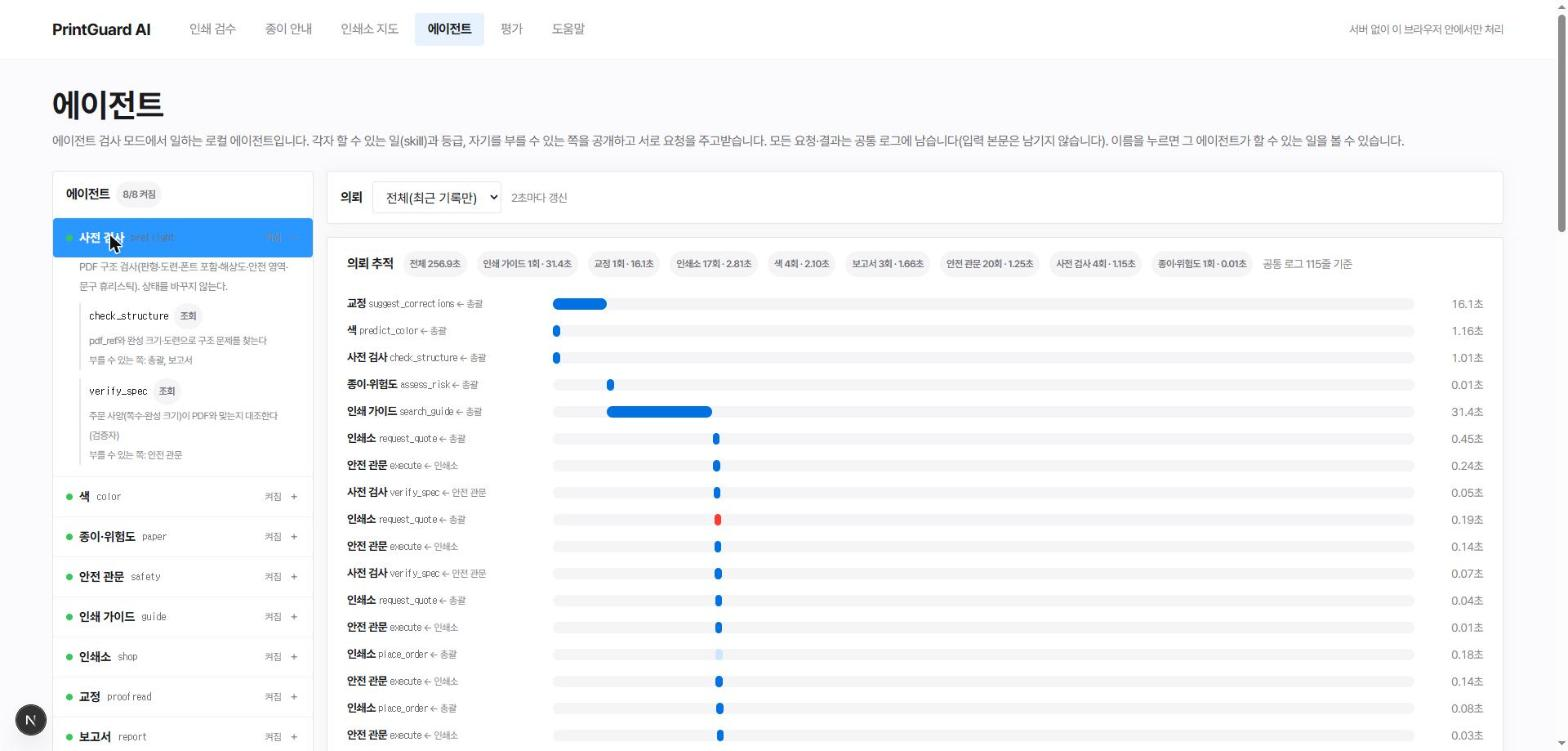
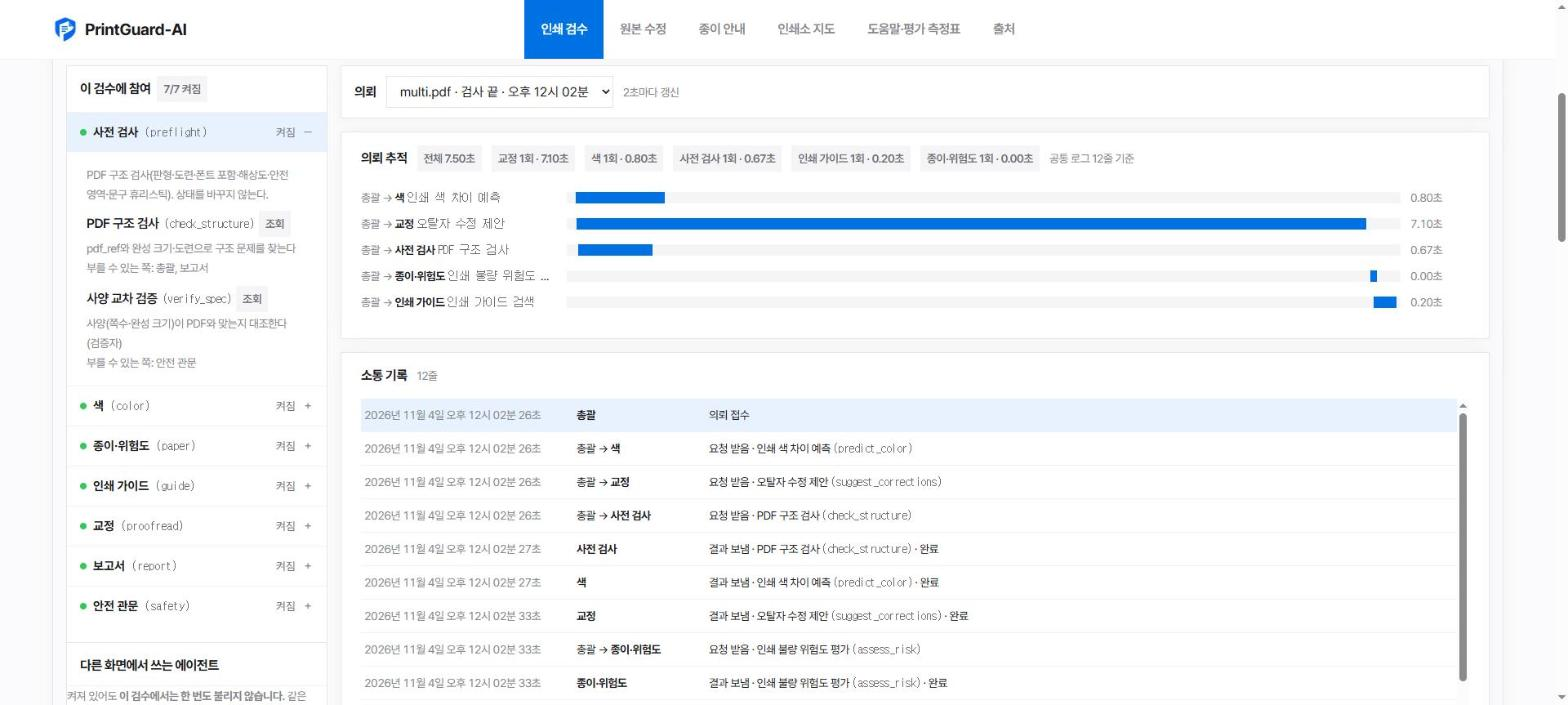
도움말 캡처를 다시 찍는다
캡처 셋이 앱보다 한참 앞섰다. 브랜드 이름이 'PrintGuard AI'(지금은 로고 + PrintGuard-AI),
상단 메뉴에 없어진 '에이전트'·'평가' 탭이 있고 '원본 수정'·'출처'가 없다. 에이전트는
8/8이고, 화면에 shop.request_quote·place_order 같은 없어진 skill이 찍혀 있다.

- guide-search.jpg, eval-search.jpg, agents-tab.jpg를 지금 화면으로 다시 찍었다.
  agents-tab은 새로 가른 목록('이 검수에 참여' / '다른 화면에서 쓰는 에이전트')이 보인다.
- fix-compare.jpg를 새로 넣었다 — 원본 수정의 전후 비교.
- safety-gates.jpg를 지운다. 어디에서도 쓰지 않는데 없어진 주문 skill이 찍혀 있었다.

캡처가 접힌 <details> 안이라 처음에는 안 받아 온다. 버그가 아니라 지연 로딩이고,
질문을 펼치면 받는다.

Claude-Session: https://claude.ai/code/session_01LP9xbMm7SoC7Ku49ug9WyR

diff --git a/frontend/app/help/page.tsx b/frontend/app/help/page.tsx
@@ -85,9 +85,9 @@ export default function WhyPage() {
         <How>자르기(청킹) 4종 × 임베딩 모델 4종을 질문 92개로 비교하고 임베딩(dense)과 단어 검색(2-gram BM25)을 각각 z-정규화해<b>0.5 : 0.5</b>로 섞었습니다.
           브라우저에서 돌리려고 multilingual-e5-small의 int8 ONNX(약 {MODEL_FILE_MB}MB)를 씁니다.</How>
         <Result>섞어 쓰기(하이브리드)가 MRR@10 0.98 수준으로 가장 좋았습니다. 2.3GB짜리 큰 모델(bge-m3·KURE-v1)과의 차이는 95% 구간이 겹쳐 구분되지 않았습니다. 그래서<b>브라우저에 올릴 수 있는 작은 모델</b>로 정했습니다.</Result>
-        <Shot w={1568} h={751} src="/shots/guide-search.jpg" alt="인쇄 검수 화면 위쪽의 가이드 검색 결과"
+        <Shot w={1568} h={705} src="/shots/guide-search.jpg" alt="인쇄 검수 화면 위쪽의 가이드 검색 결과"
           caption="인쇄 검수 화면 맨 위에서 바로 찾습니다. 답을 새로 쓰지 않고 가이드 원문 절을 그대로 보여 줍니다. 검색에 걸린 구간(연한 배경)과 질문 단어(진한 표시)는 원문 위에 표시합니다." />
-        <Shot w={1568} h={751} src="/shots/eval-search.jpg" alt="자르기 × 임베딩 모델 비교표"
+        <Shot w={1568} h={705} src="/shots/eval-search.jpg" alt="자르기 × 임베딩 모델 비교표"
           caption="고른 근거: 자르기 4종 × 모델 4종의 1위 적중률 비교(이 페이지 아래 측정표). 2.3GB짜리 큰 모델과는 구간이 겹쳤습니다. 그래서 브라우저에 올릴 수 있는 작은 모델을 택했습니다." />
         <Care>평가 질문 92개는 가이드를 쓴 사람이 직접 만들었습니다. 질문과 정답 문장이 같은 단어를 쓰니 BM25에 유리합니다. 대부분 설정이 90% 안팎 천장에 붙습니다. 모델 사이 몇 %p 차이는 질문 한두 개로 뒤집힙니다. 외부 사람이 쓴 질문으로 다시 재야 합니다.</Care>
       </QA>
@@ -201,8 +201,8 @@ export default function WhyPage() {
         <Why>한 덩어리로 다 하면 ‘무엇을 근거로 그렇게 판단했는지’가 섞입니다. 부서를 나누면 각자 할 수 있는 일(skill)과 등급이 공개됩니다. 주고받은 요청·결과도 기록에 남습니다.</Why>
         <How>총괄(오케스트레이터) 아래 사전 검사·색·종이·가이드·교정·인쇄소·보고서·원본 수정·안전 관문 10개가 각자 포트에서 돕니다. 주고받는 것은 정해진 계약(A2A)뿐입니다. 에이전트는 서로를 부를 때 자기 이름이 든 경로를 붙여<b>순환 호출과 홉 수</b>를 막고, 모든 요청·결과는 공통 로그에 남습니다(입력 본문은 남기지 않습니다).</How>
         <Result>같은 검사를 ‘바로 검사’와 ‘에이전트 검사’ 두 방식으로 할 수 있습니다. 화면은 같습니다. 인쇄 검수에서 ‘에이전트 검사’를 고르면 바로 아래에서 의뢰별 구간 막대(워터폴)를 볼 수 있습니다. 누가 언제 몇 ms 걸렸는지 나옵니다.</Result>
-        <Shot w={1568} h={751} src="/shots/agents-tab.jpg" alt="왼쪽 에이전트 목록과 오른쪽 의뢰 추적 구간 막대"
-          caption="에이전트 검사 모드에서 펼쳐지는 화면. 왼쪽에서 에이전트를 누르면 그 에이전트가 할 수 있는 일(skill)과 등급, 부를 수 있는 쪽이 펼쳐집니다. 오른쪽 구간 막대는 어떤 에이전트가 언제 몇 초 걸렸는지 공통 로그로 그립니다." />
+        <Shot w={1568} h={705} src="/shots/agents-tab.jpg" alt="왼쪽 에이전트 목록과 오른쪽 의뢰 추적 구간 막대"
+          caption="에이전트 검사 모드에서 펼쳐지는 화면. 왼쪽 목록은 이 검수에 참여하는 에이전트와 다른 화면에서 쓰는 에이전트로 갈라져 있고, 누르면 그 에이전트가 할 수 있는 일(skill)과 등급, 부를 수 있는 쪽이 펼쳐집니다. 오른쪽 구간 막대와 소통 기록은 어떤 에이전트가 언제 몇 초 걸렸는지 공통 로그로 그립니다." />
         <Result><b>켜져 있는 에이전트가 모두 이 검수에 참여하는 것은 아닙니다.</b> 인쇄소(<code>shop</code>)는 인쇄소 지도 탭이,
           원본 수정(<code>designcraft</code>)은 원본 수정 탭이 씁니다. 같은 A2A 계약으로 돌지만 PDF 검수 흐름에서는 한 번도 불리지 않아서,
           목록을 <b>‘이 검수에 참여’와 ‘다른 화면에서 쓰는 에이전트’로 갈라</b> 두었습니다. 섞어 두면 ‘켜짐’만 보고 이 검사가 쓰는 줄로 읽힙니다.</Result>
@@ -221,7 +221,9 @@ export default function WhyPage() {
         <Care><b>같은 문구가 여러 군데면 일부러 고치지 않습니다.</b> 어느 것인지 가릴 수 없는데 찍어서 고치면 조용히 틀립니다 — 쪽 번호를 적어 주면 그 쪽에서만 찾습니다.
           INDD는 읽기만 되어 <b>PDF와 IDML로만 돌려드립니다</b>(올린 원본은 건드리지 않습니다). 원본이 쓰는 글꼴이 그 PC에 없으면 대체 글꼴로 열려
           줄바꿈과 넘침이 달라집니다 — 화면에 경고로 띄웁니다. 표 안의 글자는 아직 건드리지 않습니다.
-          쓰려면 에이전트를 돌리는 PC에 <code>designcraft-cli</code>가 있어야 합니다.</Care>
+          쓰려면 에이전트를 돌리는 PC에 <code>designcraft-cli</code>가 있어야 합니다 — 원본 수정 화면 맨 위에 설치 명령이 복사 버튼과 함께 있습니다.</Care>
+        <Shot w={1568} h={705} src="/shots/fix-compare.jpg" alt="교정을 반영한 뒤의 전후 비교 화면"
+          caption="붙여 넣은 교정을 원본에 반영한 뒤. 반영·실패 건수와 내려받기 단추가 위에 있고, 아래로 바뀐 쪽마다 수정 전·후를 나란히 보여 줍니다(1쪽의 ‘깨끗히’가 ‘깨끗이’로 바뀐 자리)." />
       </QA>
 
       <QA q="파일을 쓰는 것처럼 되돌리기 어려운 행동은 어떻게 막나요?">
